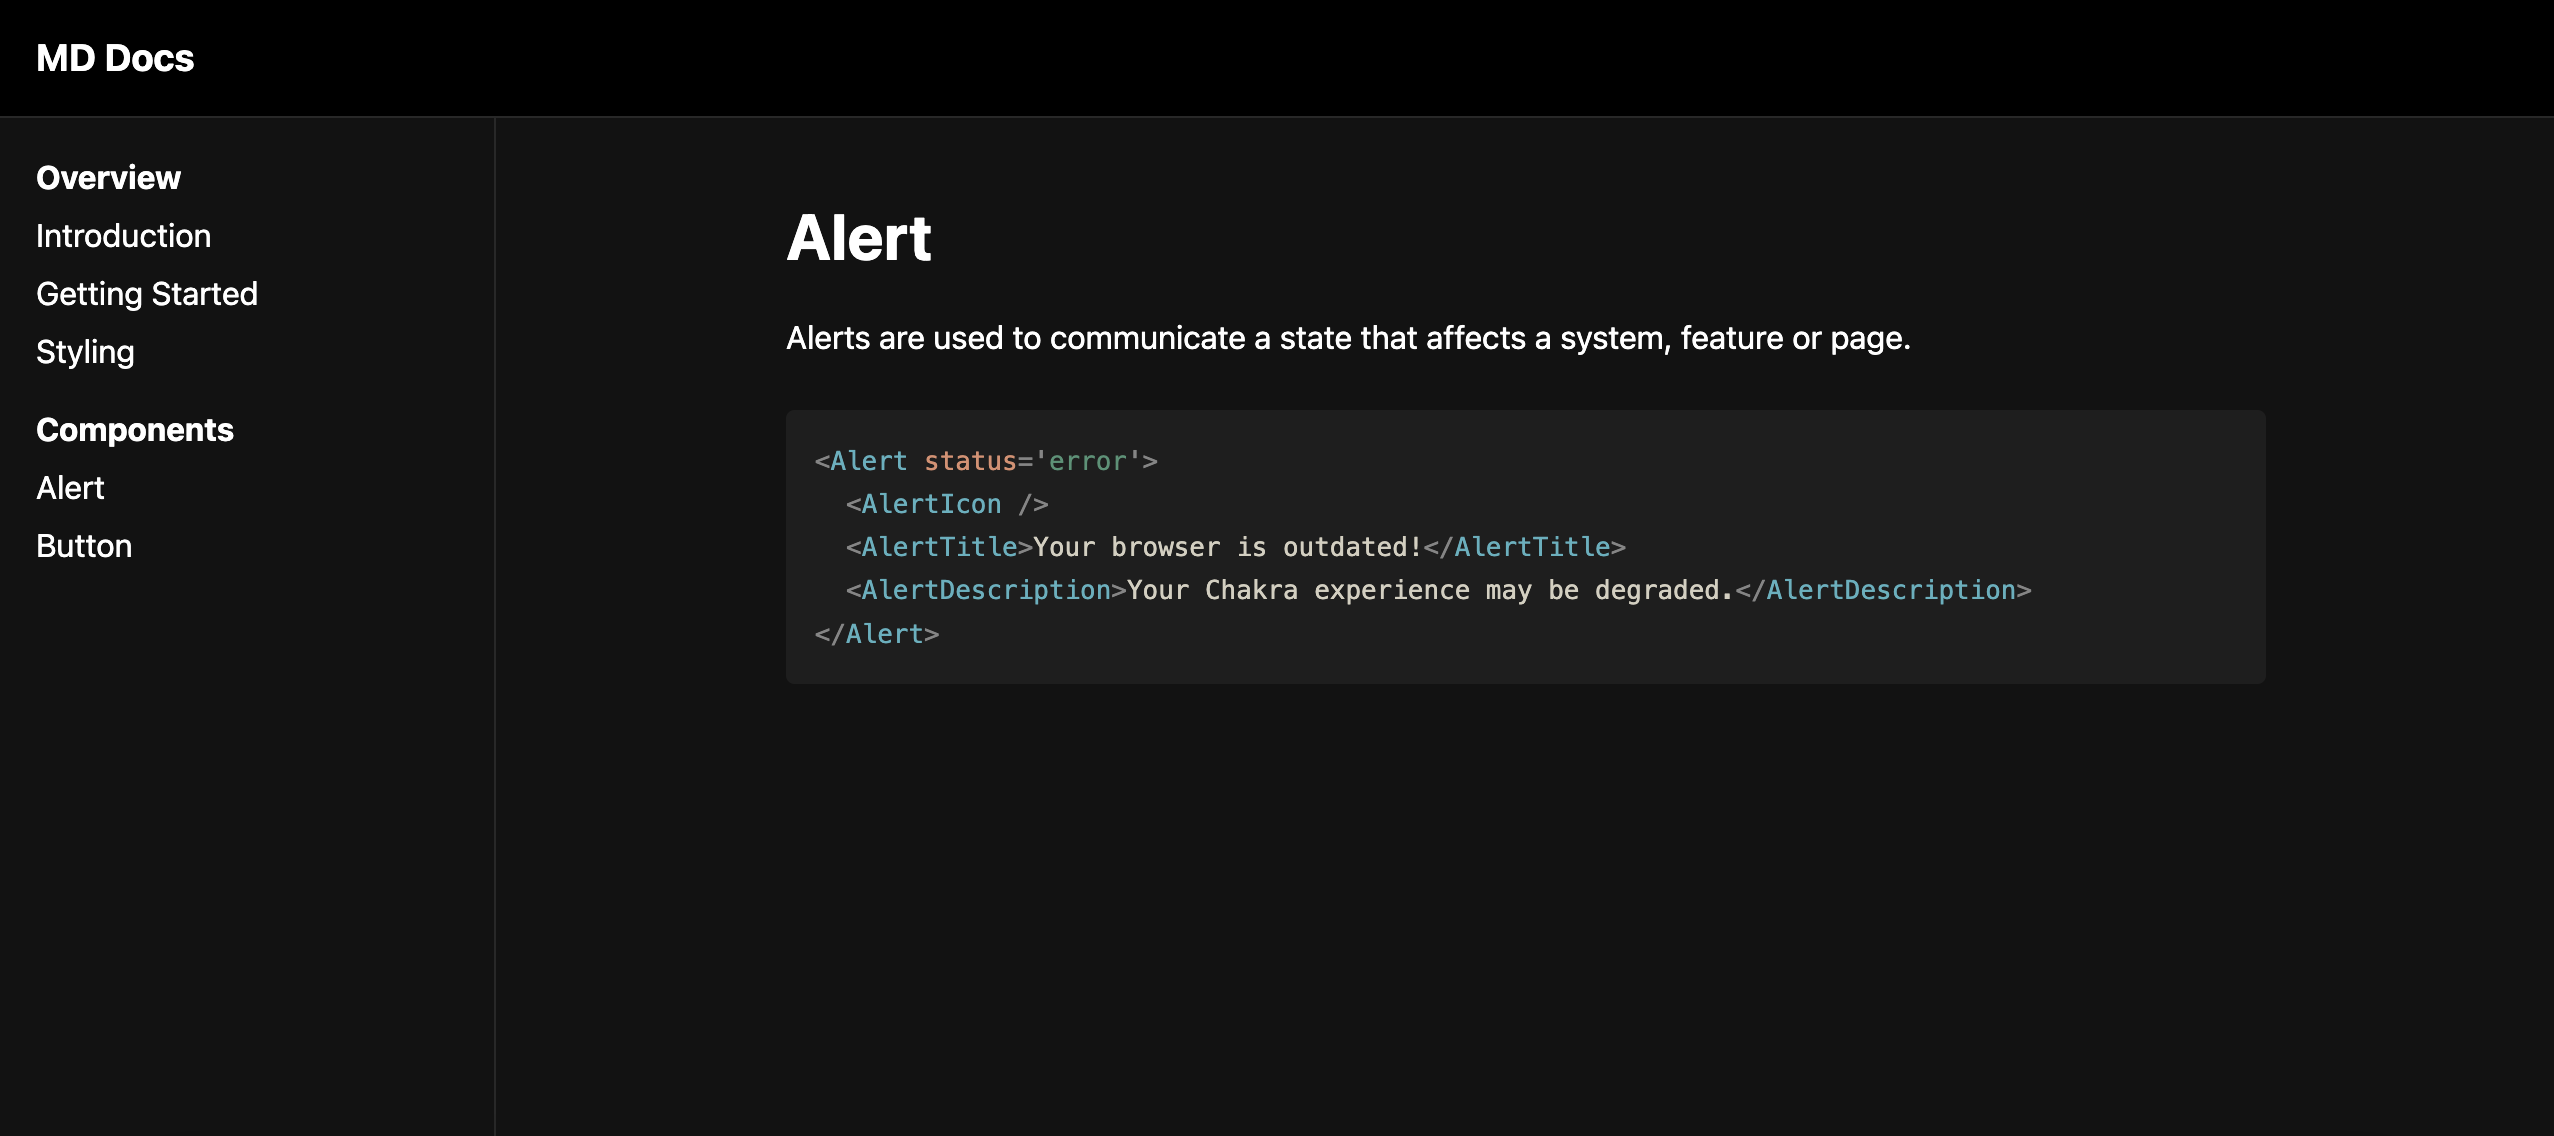
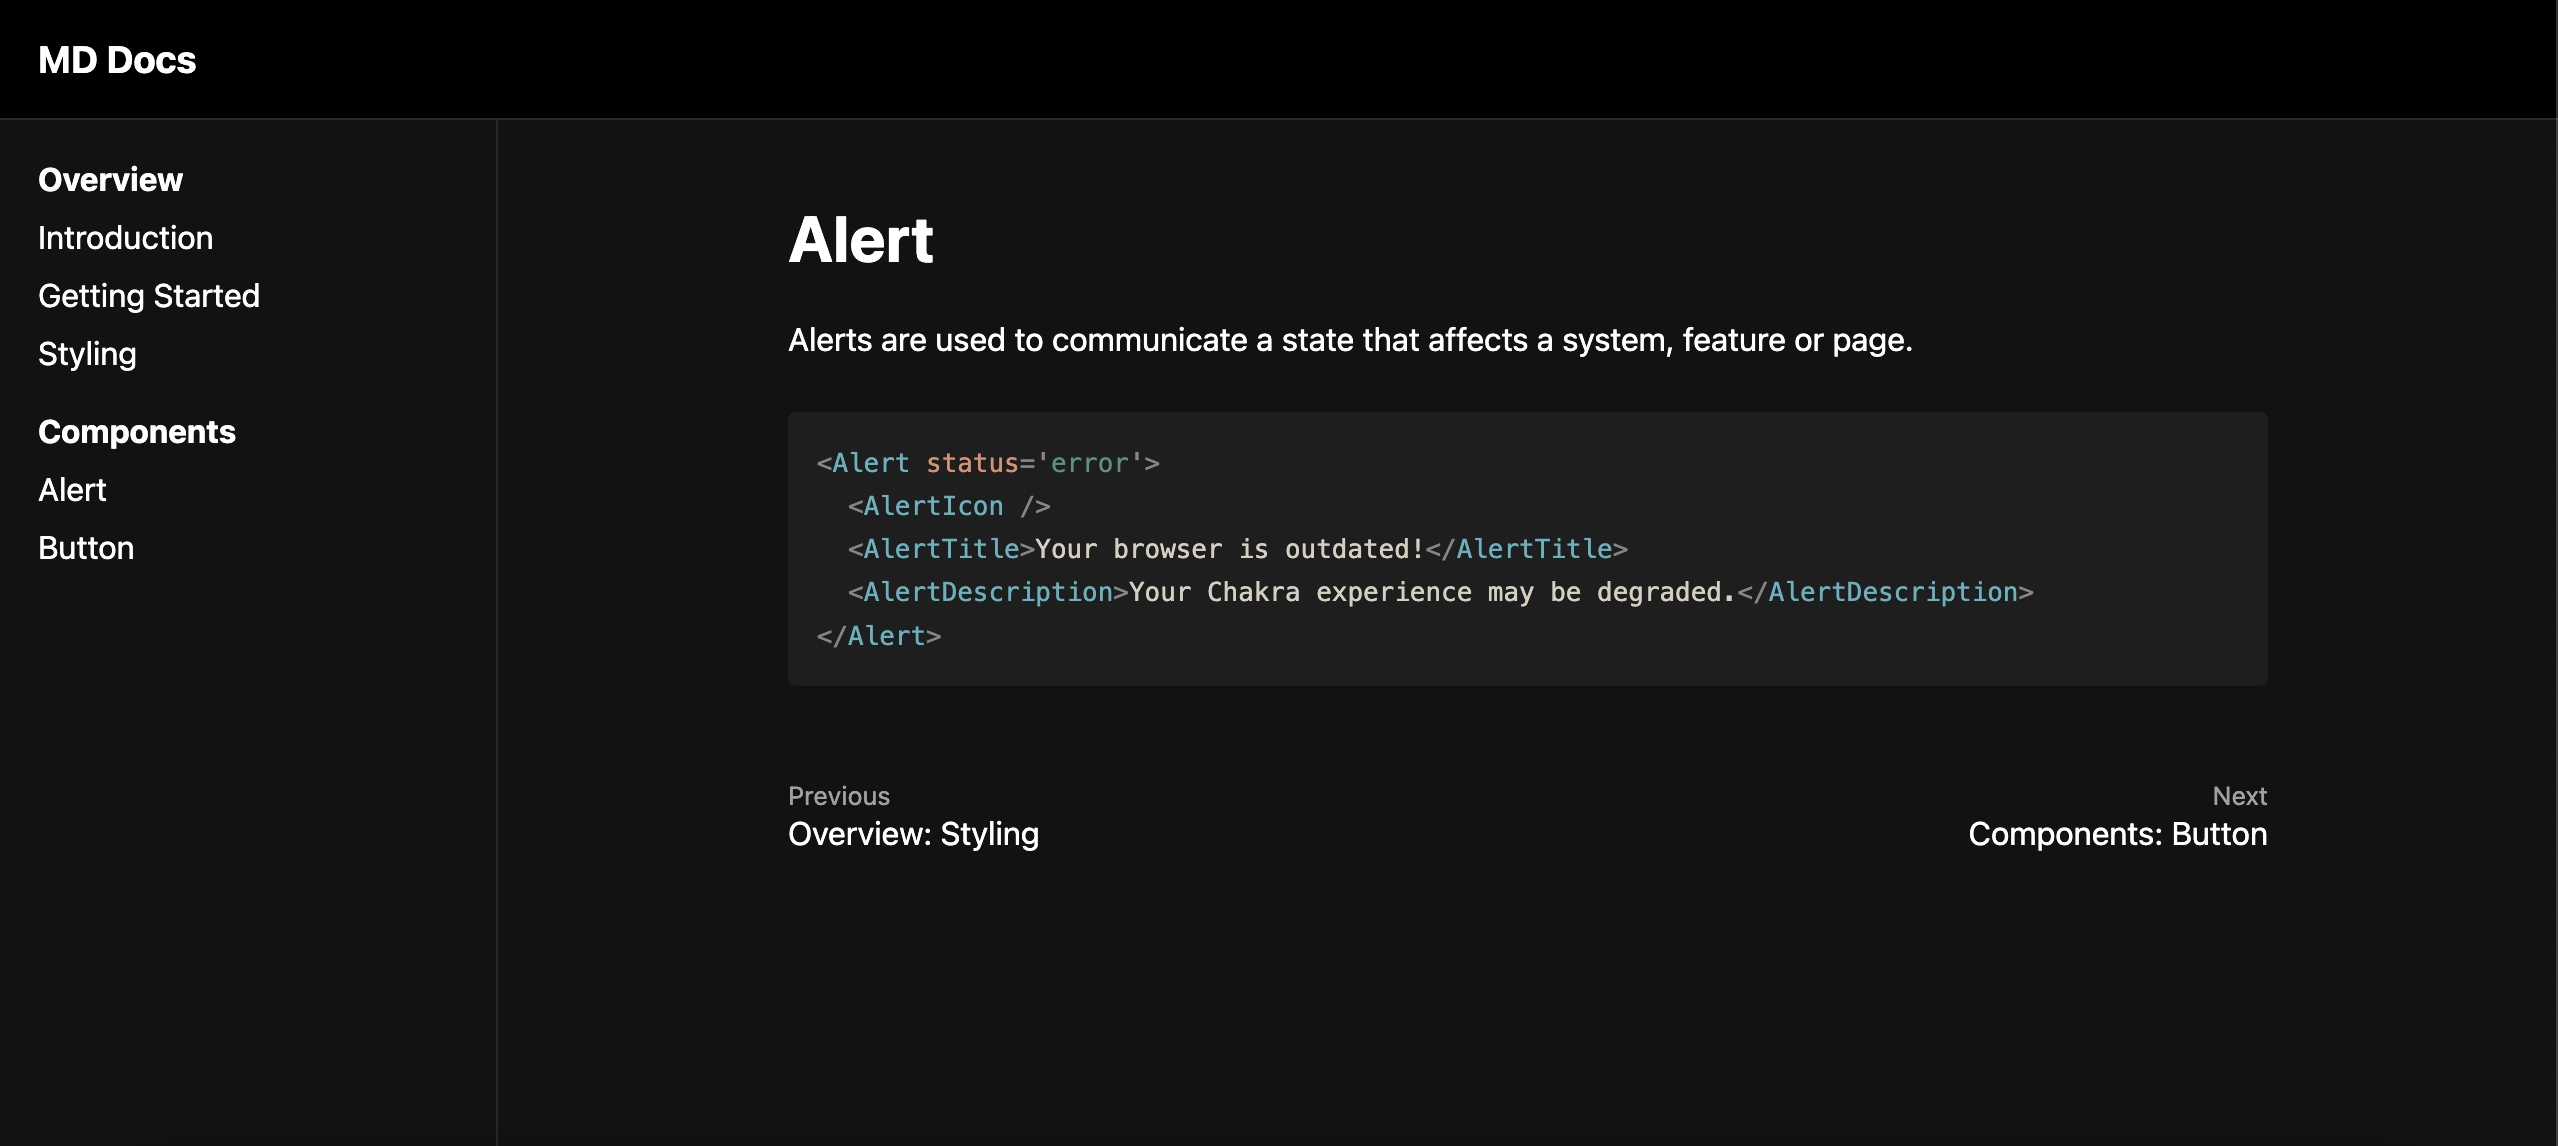
Add next and previous links to doc pages

diff --git a/components/DocsContent.tsx b/components/DocsContent.tsx
@@ -1,32 +1,83 @@
+import Link from "next/link";
 import { Doc } from "../lib/docs";
 import { MarkdownCodeBlock } from "./MarkdownCodeBlock";
 import { RenderMarkdownHtmlResult } from "./RenderMarkdownHtmlResult";
 
-export const DocsContent = ({ doc, source }: { doc: Doc; source: string }) => {
+export const DocsContent = ({
+  doc,
+  previousDoc,
+  nextDoc,
+}: {
+  doc: Doc;
+  previousDoc: Doc;
+  nextDoc: Doc;
+}) => {
   return (
     <>
-      <div className="docs-content-wrapper">
-        <div className="docs-content">
+      <div className="doc-content-wrapper">
+        <div className="doc-content">
           <RenderMarkdownHtmlResult
-            html={source}
+            html={doc.content ?? ""}
             components={{
               pre: MarkdownCodeBlock,
             }}
           />
         </div>
+
+        <div className="doc-nav-links">
+          <div className="previous">
+            {!!previousDoc && (
+              <>
+                <span className="link-heading">Previous</span>
+                <Link href={`/${previousDoc.link}`}>
+                  {previousDoc.parent}: {previousDoc.title}
+                </Link>
+              </>
+            )}
+          </div>
+
+          <div className="next">
+            {!!nextDoc && (
+              <>
+                <span className="link-heading">Next</span>
+                <Link href={`/${nextDoc.link}`}>
+                  {nextDoc.parent}: {nextDoc.title}
+                </Link>
+              </>
+            )}
+          </div>
+        </div>
       </div>
       <style jsx>{`
-        .docs-content-wrapper {
+        .doc-content-wrapper {
           margin-left: var(--sidebar-width);
           margin-top: calc(var(--header-height) + var(--spacing));
           margin-bottom: var(--spacing);
         }
 
-        .docs-content {
+        .doc-content {
           margin: 0 auto;
           max-width: 780px;
           padding: 20px;
-          height: 5000px;
+        }
+
+        .doc-nav-links {
+          margin: 0 auto;
+          max-width: 780px;
+          padding: 20px;
+          display: flex;
+          justify-content: space-between;
+        }
+
+        .doc-nav-links .link-heading {
+          display: block;
+          opacity: 0.6;
+          font-size: 0.8em;
+          margin-bottom: 2px;
+        }
+
+        .doc-nav-links .next {
+          text-align: right;
         }
       `}</style>
     </>

diff --git a/pages/docs/[...doc].tsx b/pages/docs/[...doc].tsx
@@ -8,13 +8,13 @@ import { Doc, DocDirectoryBranch, DocPath, Docs } from "../../lib/docs";
 export default function DocPage({
   doc,
   docs,
-  source,
+  previousDoc,
+  nextDoc,
 }: {
   doc: Doc;
   docs: DocDirectoryBranch[];
   previousDoc: Doc;
   nextDoc: Doc;
-  source: string;
 }) {
   return (
     <>
@@ -23,7 +23,7 @@ export default function DocPage({
       </Head>
       <Layout>
         <DocsSidebar docs={docs} />
-        <DocsContent source={source} doc={doc} />
+        <DocsContent doc={doc} previousDoc={previousDoc} nextDoc={nextDoc} />
       </Layout>
     </>
   );
@@ -52,10 +52,11 @@ export async function getStaticProps({ params }: DocPath) {
 
   return {
     props: {
-      doc,
+      doc: {
+        ...doc,
+        content: processedContent.toString(),
+      } as Doc,
       docs: docs.tree.branches,
-      source: processedContent.toString(),
-      markdown: doc.content,
       previousDoc,
       nextDoc,
     },

diff --git a/lib/docs.ts b/lib/docs.ts
@@ -9,10 +9,9 @@ export interface Doc {
   link: string;
   id?: string;
   title?: string;
+  parent?: string;
   description?: string;
   content?: string;
-  // isRoot?: boolean;
-  // isExpanded?: boolean;
 }
 
 export interface DocPath {
@@ -115,7 +114,10 @@ export class Docs {
     for (const directoryEntry of directoryEntries) {
       if (directoryEntry.isFile() && /\.(mdx|md)$/.test(directoryEntry.name)) {
         // create doc
-        const doc = this.getDocByPath(directoryEntry.name, directoryPath);
+        const doc = {
+          ...this.getDocByPath(directoryEntry.name, directoryPath),
+          parent: metadata.title,
+        };
         branches.push({
           type: "file",
           ...doc,
